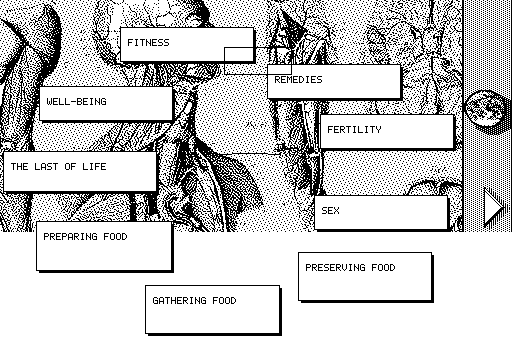
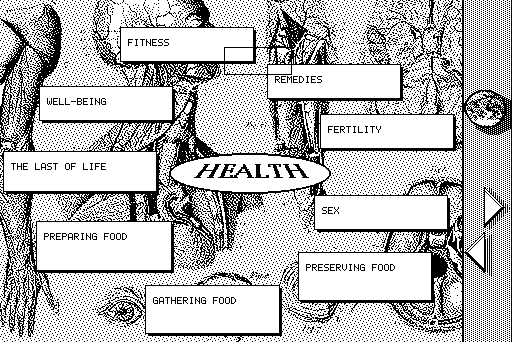
Show the card as it renders now, all 342 rows
The white band under the illustration was a lifter bug -- adda.w read
its source as a longword and kept the wrong half -- so HyperCard's WOBA
row decoder gave up two thirds of the way down every card. Fixed
upstream; this is the same HEALTH contents card with its artwork whole.

Changed region(s): [[0.0, 0.6725, 1.0, 1.0], [0.3125, 0.4386, 0.6562, 0.5848]]

diff --git a/ROADMAP.md b/ROADMAP.md
@@ -10,10 +10,9 @@ corpus names the fixture and baselines it. Work continues there.
 macrecomp has since taken HyperCard 1.2.2 well past the point this repo's
 README used to point at: it opens this disc's stacks, draws their cards and
 their artwork, runs their scripts, and follows a click from one card to the
-next. What is left there is the bitmap expander, which stops about two thirds
-of the way down a card, and SANE, still a stub -- its packages pop their
-selectors so the stack stays balanced, but none of the arithmetic is
-emulated.
+next. Cards paint in full, all 342 rows. What is left there is SANE, still a
+stub -- its packages pop their selectors so the stack stays balanced, but none
+of the arithmetic is emulated.
 
 ## Done
 

diff --git a/README.md b/README.md
@@ -46,9 +46,8 @@ that ever worked the way the internet does.
 
 macrecomp's recompiled HyperCard 1.2.2 opening this disc's `HEALTH` stack at the
 Macintosh's 512×342, reached by clicking from Home through the catalog's table
-of contents. Cards navigate, scripts compile and run, and the card art decodes;
-the bitmap expander still stops about two thirds of the way down a card, which
-is the white band under the illustration.
+of contents. Cards navigate, scripts compile and run, and the card bitmap
+decodes in full -- all 342 rows of it, illustration included.
 
 This repo is finished — it is the reconnaissance and the lister, and it is not
 growing. The recompilation continues in macrecomp.
